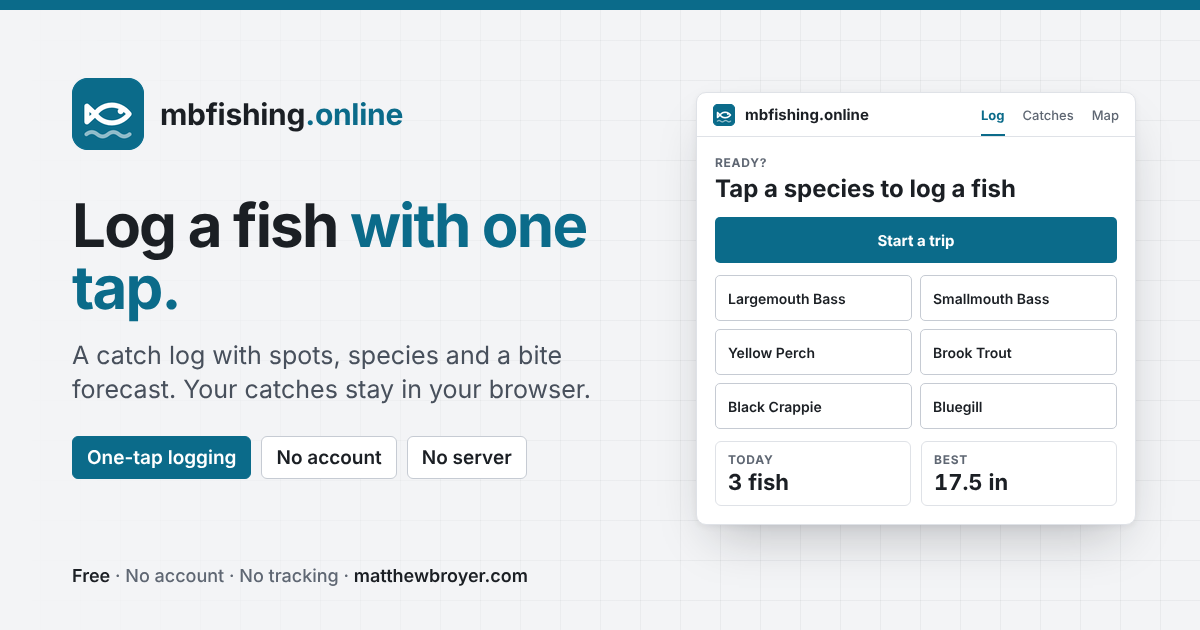
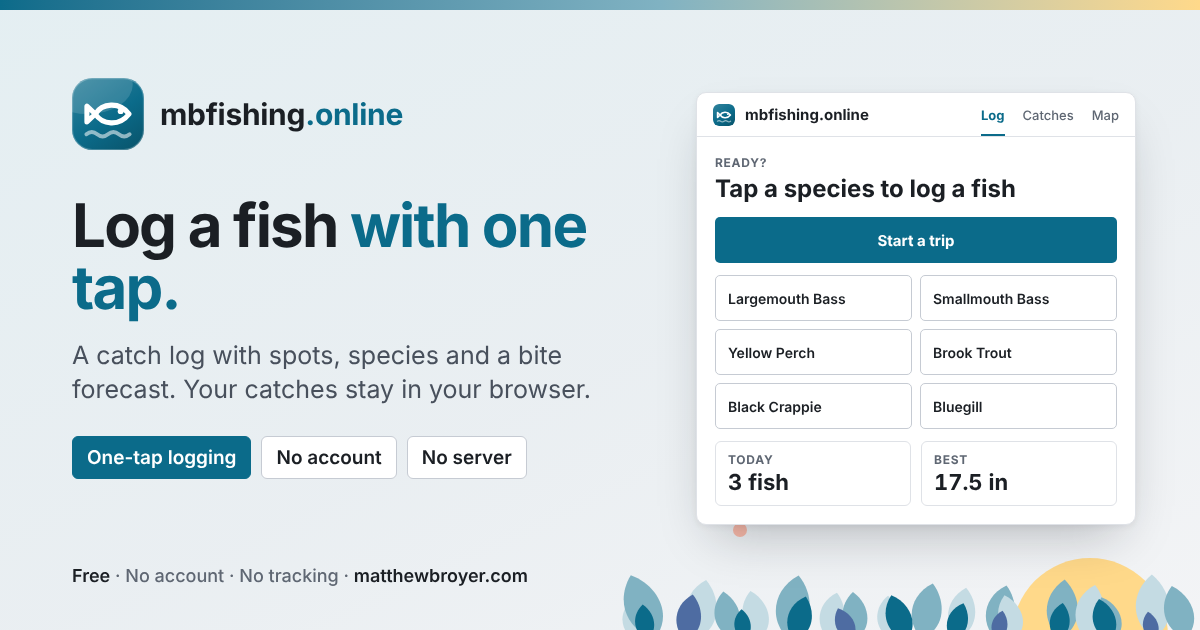
Add files via upload

diff --git a/index.html b/index.html
@@ -2,7 +2,7 @@
 <html lang="en">
 <head>
 <meta charset="utf-8">
-<meta http-equiv="Content-Security-Policy" content="default-src 'none'; script-src 'self' 'sha256-AQcgw3QsikccOQscMMUMW0Rfqv4LnLrk8Cee+yrlqqE=' 'sha256-t5lGpYBaDxTfELkru2DaUQ7yke10enwug5xSwQKziYU='; style-src 'self' 'unsafe-inline'; img-src 'self' data: blob: https://tiles.openfreemap.org; connect-src 'self' https://api.open-meteo.com https://photon.komoot.io https://tiles.openfreemap.org; worker-src 'self' blob:; child-src 'self' blob:; manifest-src 'self'; object-src 'none'; base-uri 'none'; form-action 'none'; frame-src 'none'">
+<meta http-equiv="Content-Security-Policy" content="default-src 'none'; script-src 'self' 'sha256-AQcgw3QsikccOQscMMUMW0Rfqv4LnLrk8Cee+yrlqqE=' 'sha256-8pg0vtGjQ7nLqe4cF+yCFuGCxFhlnPUaorGmQA6qUSw='; style-src 'self' 'unsafe-inline'; img-src 'self' data: blob: https://tiles.openfreemap.org; connect-src 'self' https://api.open-meteo.com https://photon.komoot.io https://tiles.openfreemap.org; worker-src 'self' blob:; child-src 'self' blob:; manifest-src 'self'; object-src 'none'; base-uri 'none'; form-action 'none'; frame-src 'none'">
 <meta name="viewport" content="width=device-width,initial-scale=1,viewport-fit=cover">
 <meta name="theme-color" content="#0B6B8A">
 <title>Fishing | Log</title>
@@ -12,7 +12,7 @@
 <meta property="og:title" content="Fishing: log a fish with one tap">
 <meta property="og:description" content="No account. Your catches are saved in your browser, not on a server.">
 <meta property="og:url" content="https://mbfishing.online/">
-<meta property="og:image" content="https://mbfishing.online/og-image.png">
+<meta property="og:image" content="https://mbfishing.online/og-image.png?v=2">
 <meta property="og:image:type" content="image/png">
 <meta property="og:image:width" content="1200">
 <meta property="og:image:height" content="630">
@@ -20,15 +20,15 @@
 <meta name="twitter:card" content="summary_large_image">
 <meta name="twitter:title" content="Fishing: log a fish with one tap">
 <meta name="twitter:description" content="No account. Your catches are saved in your browser, not on a server.">
-<meta name="twitter:image" content="https://mbfishing.online/og-image.png">
+<meta name="twitter:image" content="https://mbfishing.online/og-image.png?v=2">
 <script>var __t="light";try{if(localStorage.getItem("mbfishing.theme")==="dark")__t="dark"}catch(e){}document.documentElement.setAttribute("data-theme",__t)</script>
 <meta name="apple-mobile-web-app-capable" content="yes">
 <meta name="mobile-web-app-capable" content="yes">
 <meta name="apple-mobile-web-app-title" content="Fishing">
 <link rel="manifest" href="manifest.json">
-<link rel="icon" href="favicon.ico" sizes="48x48">
-<link rel="icon" href="favicon.svg" type="image/svg+xml">
-<link rel="apple-touch-icon" href="apple-touch-icon.png">
+<link rel="icon" href="favicon.ico?v=2" sizes="48x48">
+<link rel="icon" href="favicon.svg?v=2" type="image/svg+xml">
+<link rel="apple-touch-icon" href="apple-touch-icon.png?v=2">
 <style>
 /* Utility theme tokens: neutral desktop-software palette, one chartreuse-olive accent. The app opens in light mode; dark applies only when you pick it. */
 :root{--bg:#f3f4f6;--surface:#fff;--surface2:#f6f7f9;--surface3:#eceef2;--ink:#1b1f24;--ink-2:#48505c;--muted:#5f6773;--line:#dfe2e7;--line-strong:#c6cbd3;--accent:#0b6b8a;--accent-hover:#08566f;--accent-ink:#fff;--accent-soft:rgba(11,107,138,.10);--accent-line:rgba(11,107,138,.38);--gold:#b87900;--gold-ink:#7a5200;--gold-soft:#fbeecb;--good:#16a34a;--danger:#b3321f;--danger-ink:#fff;--shadow:0 1px 2px rgba(20,24,31,.06);--shadow-pop:0 8px 24px -6px rgba(20,24,31,.22),0 1px 3px rgba(20,24,31,.08);color-scheme:light}
@@ -746,11 +746,142 @@ img.logo{border-radius:var(--r)}
 }
 
 </style>
+<style id="mb-suite-cutouts">
+/* =====================================================================
+   MB SUITE v2 · PAPER CUTOUTS surface layer
+   Additive and accent-driven. Load LAST in <head>: after mb-suite-core.css,
+   mb-suite-appbar.css and the app's adapter. Never edit core to get this look.
+   Changes SURFACE only: gradients, page wash, cutout art. Geometry (6/4/8px),
+   layout, density, type, components, motion and behavior stay MB Suite v1.
+   Per-app tweaks go in adapters/<app>-cutouts.css, not here.
+   ===================================================================== */
+
+/* ---- art + gradient tokens (all derived from --accent; no per-app hex) ---- */
+:root{
+  --cut-deep:var(--accent);
+  --cut-mid:color-mix(in srgb,var(--accent) 52%,#fff);
+  --cut-soft:color-mix(in srgb,var(--accent) 24%,#fff);
+  --cut-near:color-mix(in srgb,var(--accent) 62%,#0aa6b8);      /* neighbor hue; upgraded below where supported */
+  --cut-butter:#FFD98A;
+  --cut-blush:#F7B8A8;
+  --wash-top:color-mix(in srgb,var(--accent) 7%,#fff);
+  --wash-mid:color-mix(in srgb,var(--accent) 4%,var(--bg));
+  --g-line:linear-gradient(90deg,var(--accent),var(--cut-mid) 55%,var(--cut-butter));
+  --g-underline:linear-gradient(90deg,var(--accent),var(--cut-mid));
+  --g-pri:linear-gradient(135deg,var(--accent),var(--accent-hover));
+  --g-bar:linear-gradient(90deg,var(--accent),var(--cut-mid));
+  --g-tile:linear-gradient(135deg,color-mix(in srgb,var(--accent) 11%,var(--surface)),var(--surface) 65%);
+}
+@supports (color:oklch(from red l c h)){
+  :root{--cut-near:oklch(from var(--accent) calc(l + .04) c calc(h + 34))}
+}
+:root[data-theme="dark"],:root.dark{
+  --cut-mid:color-mix(in srgb,var(--accent) 60%,var(--surface));
+  --cut-soft:color-mix(in srgb,var(--accent) 30%,var(--surface));
+  --cut-near:color-mix(in srgb,var(--accent) 62%,#0aa6b8);
+  --cut-butter:#D9B363;
+  --cut-blush:#C98C80;
+  --wash-top:color-mix(in srgb,var(--accent) 16%,var(--bg));
+  --wash-mid:color-mix(in srgb,var(--accent) 7%,var(--bg));
+}
+@supports (color:oklch(from red l c h)){
+  :root[data-theme="dark"],:root.dark{--cut-near:oklch(from var(--accent) calc(l - .06) c calc(h + 34))}
+}
+
+/* ---- page wash: accent-derived, fades into the neutral page by ~680px ---- */
+html{background:linear-gradient(180deg,var(--wash-top) 0,var(--wash-mid) 420px,var(--bg) 680px) no-repeat,var(--bg)}
+body{background:none}
+
+/* ---- app bar: gradient accent line + gradient underline on the current tab ---- */
+.top,.app-bar{box-shadow:var(--shadow)!important}
+.top::before,.app-bar::before{content:"";position:absolute;left:0;right:0;top:0;height:3px;background:var(--g-line);pointer-events:none;z-index:1}
+.tabs button[aria-current="page"],nav.tabs button[aria-current="page"],
+:root[data-theme="dark"] nav.tabs button[aria-current="page"]{box-shadow:none!important;background:var(--g-underline) bottom/100% 2px no-repeat!important}
+.bnav button[aria-current="page"]{box-shadow:none!important;background:var(--g-underline) top/100% 2px no-repeat!important}
+
+/* ---- gradient is allowed ONLY here (everything else stays flat v1) ----
+   primary buttons, progress/bar fills, the hero stat tile, the banner, the page wash, the accent line.
+   Map the app's own selectors in adapters/<app>-cutouts.css; these are the common ones. */
+:is(.btn.primary,.btn.pri,.btn-primary,button.primary,.primary-btn){background:var(--g-pri)!important;border-color:transparent!important;color:var(--accent-ink)!important}
+.cu-hero{background:var(--g-tile)}
+.cu-bar{background:var(--g-bar)!important}                 /* use on the fill element of a progress/bar */
+
+/* ---- banner ---- */
+.cu-banner{position:relative;overflow:hidden;min-height:128px;margin:0 0 var(--sp-4);padding:22px 24px;border-radius:var(--r-lg);
+  border:1px solid color-mix(in srgb,var(--accent) 16%,transparent);box-shadow:var(--shadow);
+  background:linear-gradient(105deg,color-mix(in srgb,var(--accent) 3%,var(--surface)) 0%,color-mix(in srgb,var(--accent) 9%,var(--surface)) 60%,
+    color-mix(in srgb,var(--cut-butter) 22%,color-mix(in srgb,var(--accent) 5%,var(--surface))) 100%)}
+.cu-banner.slim{min-height:72px;padding:16px 24px}
+.cu-banner .cu-txt{position:relative;z-index:1}
+.cu-banner.slim .cu-art:not(.at-bottom):not(.at-top){max-width:58%}
+.cu-banner .cu-t{margin:0;font-size:var(--fs-h2);font-weight:650;letter-spacing:-.015em;color:var(--ink)}
+.cu-banner .cu-s{margin:4px 0 0;font-size:13.5px;color:var(--ink-2)}
+
+/* ---- art: roles (never hardcode hexes; recolor by role class or palette class) ---- */
+.cu-art{position:absolute;right:0;top:0;height:100%;width:auto;max-width:75%;pointer-events:none}
+.cu-art .d{fill:var(--cu-d,var(--cut-deep))}
+.cu-art .m{fill:var(--cu-m,var(--cut-mid))}
+.cu-art .s{fill:var(--cu-s,var(--cut-soft))}
+.cu-art .n{fill:var(--cu-n,var(--cut-near))}
+.cu-art .b{fill:var(--cu-b,var(--cut-butter))}
+.cu-art .r{fill:var(--cu-r,var(--cut-blush))}
+.cu-art .sd{fill:none;stroke:var(--cu-d,var(--cut-deep));stroke-width:3;stroke-linecap:round;stroke-linejoin:round}
+.cu-art .sm{fill:none;stroke:var(--cu-m,var(--cut-mid));stroke-width:3;stroke-linecap:round;stroke-linejoin:round}
+
+/* ---- palettes: put on the svg or any ancestor ---- */
+.cu-p-mono{--cu-n:color-mix(in srgb,var(--accent) 78%,#000);--cu-b:color-mix(in srgb,var(--accent) 14%,var(--surface));--cu-r:color-mix(in srgb,var(--accent) 38%,var(--surface))}
+.cu-p-soft{--cu-d:var(--cut-mid);--cu-m:var(--cut-soft);--cu-s:color-mix(in srgb,var(--accent) 12%,var(--surface));
+  --cu-n:color-mix(in srgb,var(--cut-near) 45%,var(--surface));--cu-b:color-mix(in srgb,var(--cut-butter) 70%,var(--surface));--cu-r:color-mix(in srgb,var(--cut-blush) 70%,var(--surface))}
+.cu-p-bold{--cu-d:var(--accent-hover);--cu-m:var(--accent);--cu-s:var(--cut-mid)}
+
+/* ---- placement / size / modifiers (all optional; size with --cu-w or height) ---- */
+.cu-art.at-right{right:0;left:auto;top:0}
+.cu-art.at-left{left:0;right:auto;top:0}
+.cu-art.at-top{left:0;right:0;top:0;width:100%;height:auto;max-width:none}
+.cu-art.at-bottom{left:0;right:0;top:auto;bottom:0;width:100%;height:auto;max-width:none}
+.cu-art.at-corner{top:0;right:0;height:auto;width:var(--cu-w,220px);max-width:none}
+.cu-art.at-corner-bl{top:auto;right:auto;bottom:0;left:0;height:auto;width:var(--cu-w,220px);max-width:none}
+.cu-art.inline{position:relative;display:block;right:auto;top:auto;margin:0 auto;width:var(--cu-w,100%);max-width:100%;height:auto}
+.cu-art.mirror{transform:scaleX(-1)}
+.cu-art.flip{transform:scaleY(-1)}
+.cu-art.fade{opacity:.35}
+.cu-art.xs{--cu-w:64px}.cu-art.sm{--cu-w:120px}.cu-art.md{--cu-w:220px}.cu-art.lg{--cu-w:340px}
+:root[data-theme="dark"] .cu-art,:root.dark .cu-art{opacity:.85}
+:root[data-theme="dark"] .cu-art.fade,:root.dark .cu-art.fade{opacity:.3}
+
+/* ---- phones + print ---- */
+@media(max-width:600px){
+  .cu-banner{padding:18px 16px;min-height:104px}
+  .cu-banner .cu-art:not(.at-bottom):not(.at-top){max-width:46%}
+}
+@media print{html{background:#fff}.cu-banner,.cu-art{display:none}}
+
+/* =====================================================================
+   MB SUITE v2 · mbfishing.online adapter (loads after mb-suite-cutouts.css)
+   Fishing has no .top/.app-bar: its accent line is body::before and its tabs are #nav.
+   ===================================================================== */
+/* accent line: the v1 fixed bar becomes the gradient */
+body::before{background:var(--g-line)}
+/* current tab: gradient marker. Phone bottom bar = top marker; wide screens = bottom underline */
+#nav button[aria-current=page]{box-shadow:none!important;background:var(--g-underline) top/100% 2px no-repeat!important}
+@media(min-width:900px){#nav button[aria-current=page]{background:var(--g-underline) bottom/100% 2px no-repeat!important}}
+/* primary buttons: gradient (generic rule), hover feedback, flat disabled state */
+.btn.primary:hover:not(:disabled){filter:brightness(.94)}
+.btn.primary:disabled{background:color-mix(in srgb,var(--accent) 35%,var(--surface-2))!important;border-color:transparent!important;color:color-mix(in srgb,var(--accent-ink) 80%,transparent)!important;filter:none}
+/* progress fills (scroll progress line and meters) */
+.bar i,#prog i{background:var(--g-bar)}
+/* the status card is the hero tile of the Log view */
+.card.status{background:var(--g-tile)}
+/* the banner sits above the two-column Log layout */
+#v-log>.cu-banner{margin-bottom:var(--sp-4)}
+/* phones: keep banner text in its own column so it never meets the art */
+@media(max-width:600px){.cu-banner .cu-txt{max-width:54%}}
+</style>
 </head>
 <body>
 <a class="skip" href="#main" data-act="skip">Skip to content</a>
 <header id="top">
-  <h1><a class="lockup" href="./" data-act="go" data-v="log" aria-label="mbfishing.online: Your catch log. Go to Log"><img class="logo" src="favicon.svg" alt="" width="32" height="32"><span class="lk-t"><span class="lk-n">mbfishing<span>.online</span></span><span class="lk-d">Official Web App · v1.1</span></span></a></h1>
+  <h1><a class="lockup" href="./" data-act="go" data-v="log" aria-label="mbfishing.online: Your catch log. Go to Log"><img class="logo" src="favicon.svg" alt="" width="32" height="32"><span class="lk-t"><span class="lk-n">mbfishing<span>.online</span></span><span class="lk-d">Official Web App · v1.2</span></span></a></h1>
   <div class="hdr-tools">
     <button id="pill" data-act="go" data-v="log" hidden></button>
     <button class="ib" id="search-btn" data-act="gs-open" aria-label="Search everything"><svg class="uic" viewBox="0 0 24 24" width="20" height="20" fill="none" stroke="currentColor" stroke-width="2" stroke-linecap="round" stroke-linejoin="round" aria-hidden="true" focusable="false"><circle cx="10.5" cy="10.5" r="6"/><path d="m15 15 5 5"/></svg><span class="lbl">Search everything</span><kbd>/</kbd></button>
@@ -789,7 +920,7 @@ img.logo{border-radius:var(--r)}
   <section id="v-more" class="view" hidden></section>
 </main>
 <nav id="nav" aria-label="Main">
-  <div class="brand"><a class="lockup" href="./" data-act="go" data-v="log" aria-label="mbfishing.online: Your catch log. Go to Log"><img class="logo" src="favicon.svg" alt="" width="32" height="32"><span class="lk-t"><span class="lk-n">mbfishing<span>.online</span></span><span class="lk-d">Official Web App · v1.1</span></span></a></div>
+  <div class="brand"><a class="lockup" href="./" data-act="go" data-v="log" aria-label="mbfishing.online: Your catch log. Go to Log"><img class="logo" src="favicon.svg" alt="" width="32" height="32"><span class="lk-t"><span class="lk-n">mbfishing<span>.online</span></span><span class="lk-d">Official Web App · v1.2</span></span></a></div>
   <button data-act="go" data-v="log" aria-current="page"><span class="ic"><svg class="uic" viewBox="0 0 24 24" width="20" height="20" fill="none" stroke="currentColor" stroke-width="2" stroke-linecap="round" stroke-linejoin="round" aria-hidden="true" focusable="false"><circle cx="12" cy="12" r="9"/><path d="M12 8v8M8 12h8"/></svg></span>Log</button>
   <button data-act="go" data-v="catches"><span class="ic"><svg class="uic" viewBox="0 0 24 24" width="20" height="20" fill="none" stroke="currentColor" stroke-width="2" stroke-linecap="round" stroke-linejoin="round" aria-hidden="true" focusable="false"><path d="M6.5 12c2.5-4 8.5-4.8 12.5 0-4 4.8-10 4-12.5 0z"/><path d="M6.5 12 3 9v6z"/><circle cx="15.5" cy="11.3" r=".9" fill="currentColor" stroke="none"/></svg></span>Catches</button>
   <button data-act="go" data-v="map"><span class="ic"><svg class="uic" viewBox="0 0 24 24" width="20" height="20" fill="none" stroke="currentColor" stroke-width="2" stroke-linecap="round" stroke-linejoin="round" aria-hidden="true" focusable="false"><path d="M9 4 3 6.5v13L9 17l6 2.5 6-2.5v-13L15 6.5 9 4z"/><path d="M9 4v13M15 6.5v13"/></svg></span>Map</button>
@@ -1697,12 +1828,18 @@ function setupCard(){
   return`<div class="card setup"><div class="eyebrow">Get set up · ${n} of ${steps.length}</div><div class="bar"><i style="width:${Math.round(n/steps.length*100)}%"></i></div>${steps.map(row).join('')}<button class="btn sm link mt" data-act="setup-hide">Hide this list</button></div>`;
 }
 ACT['setup-hide']=()=>{try{localStorage.setItem(SETUP_KEY,'hidden')}catch(e){}refresh()};
+const CU_BANNER_SVG=`<svg class="cu-art" viewBox="0 0 640 140" preserveAspectRatio="xMaxYMax slice" aria-hidden="true" focusable="false"><circle class="b" cx="470" cy="142" r="78"/><path class="s" transform="translate(11.6 144) rotate(-81.5) scale(0.42)" d="M0 0 C 20 -34 66 -40 96 -6 C 70 28 22 34 0 0Z"/><path class="m" transform="translate(34.9 144) rotate(-107.4) scale(0.70)" d="M0 0 C 20 -34 66 -40 96 -6 C 70 28 22 34 0 0Z"/><path class="s" transform="translate(76.6 144) rotate(-77.1) scale(0.61)" d="M0 0 C 20 -34 66 -40 96 -6 C 70 28 22 34 0 0Z"/><path class="m" transform="translate(111 144) rotate(-95.8) scale(0.49)" d="M0 0 C 20 -34 66 -40 96 -6 C 70 28 22 34 0 0Z"/><path class="s" transform="translate(140.5 144) rotate(-98.5) scale(0.50)" d="M0 0 C 20 -34 66 -40 96 -6 C 70 28 22 34 0 0Z"/><path class="m" transform="translate(167.7 144) rotate(-76.5) scale(0.66)" d="M0 0 C 20 -34 66 -40 96 -6 C 70 28 22 34 0 0Z"/><path class="s" transform="translate(207.6 144) rotate(-74.7) scale(0.48)" d="M0 0 C 20 -34 66 -40 96 -6 C 70 28 22 34 0 0Z"/><path class="m" transform="translate(237.1 144) rotate(-91.6) scale(0.48)" d="M0 0 C 20 -34 66 -40 96 -6 C 70 28 22 34 0 0Z"/><path class="s" transform="translate(269 144) rotate(-87.7) scale(0.44)" d="M0 0 C 20 -34 66 -40 96 -6 C 70 28 22 34 0 0Z"/><path class="m" transform="translate(301.3 144) rotate(-74.5) scale(0.58)" d="M0 0 C 20 -34 66 -40 96 -6 C 70 28 22 34 0 0Z"/><path class="s" transform="translate(337.7 144) rotate(-76.9) scale(0.53)" d="M0 0 C 20 -34 66 -40 96 -6 C 70 28 22 34 0 0Z"/><path class="m" transform="translate(374.9 144) rotate(-74) scale(0.56)" d="M0 0 C 20 -34 66 -40 96 -6 C 70 28 22 34 0 0Z"/><path class="s" transform="translate(396.2 144) rotate(-101.8) scale(0.46)" d="M0 0 C 20 -34 66 -40 96 -6 C 70 28 22 34 0 0Z"/><path class="m" transform="translate(440.3 144) rotate(-82.1) scale(0.61)" d="M0 0 C 20 -34 66 -40 96 -6 C 70 28 22 34 0 0Z"/><path class="s" transform="translate(465.4 144) rotate(-76.1) scale(0.56)" d="M0 0 C 20 -34 66 -40 96 -6 C 70 28 22 34 0 0Z"/><path class="m" transform="translate(496.2 144) rotate(-106.3) scale(0.45)" d="M0 0 C 20 -34 66 -40 96 -6 C 70 28 22 34 0 0Z"/><path class="s" transform="translate(533.6 144) rotate(-88) scale(0.66)" d="M0 0 C 20 -34 66 -40 96 -6 C 70 28 22 34 0 0Z"/><path class="m" transform="translate(565.8 144) rotate(-101.5) scale(0.56)" d="M0 0 C 20 -34 66 -40 96 -6 C 70 28 22 34 0 0Z"/><path class="s" transform="translate(605.4 144) rotate(-99.5) scale(0.52)" d="M0 0 C 20 -34 66 -40 96 -6 C 70 28 22 34 0 0Z"/><path class="m" transform="translate(630.7 144) rotate(-96.5) scale(0.65)" d="M0 0 C 20 -34 66 -40 96 -6 C 70 28 22 34 0 0Z"/><path class="d" transform="translate(26.5 146) rotate(-92.6) scale(0.37)" d="M0 0 C 20 -34 66 -40 96 -6 C 70 28 22 34 0 0Z"/><path class="n" transform="translate(65.2 146) rotate(-77) scale(0.48)" d="M0 0 C 20 -34 66 -40 96 -6 C 70 28 22 34 0 0Z"/><path class="d" transform="translate(123.6 146) rotate(-90.3) scale(0.32)" d="M0 0 C 20 -34 66 -40 96 -6 C 70 28 22 34 0 0Z"/><path class="d" transform="translate(174 146) rotate(-71.2) scale(0.47)" d="M0 0 C 20 -34 66 -40 96 -6 C 70 28 22 34 0 0Z"/><path class="n" transform="translate(231.9 146) rotate(-110.2) scale(0.36)" d="M0 0 C 20 -34 66 -40 96 -6 C 70 28 22 34 0 0Z"/><path class="d" transform="translate(286.3 146) rotate(-105) scale(0.49)" d="M0 0 C 20 -34 66 -40 96 -6 C 70 28 22 34 0 0Z"/><path class="d" transform="translate(332 146) rotate(-69) scale(0.40)" d="M0 0 C 20 -34 66 -40 96 -6 C 70 28 22 34 0 0Z"/><path class="n" transform="translate(376.7 146) rotate(-74.9) scale(0.31)" d="M0 0 C 20 -34 66 -40 96 -6 C 70 28 22 34 0 0Z"/><path class="d" transform="translate(437.1 146) rotate(-77.8) scale(0.39)" d="M0 0 C 20 -34 66 -40 96 -6 C 70 28 22 34 0 0Z"/><path class="d" transform="translate(489.5 146) rotate(-100.8) scale(0.44)" d="M0 0 C 20 -34 66 -40 96 -6 C 70 28 22 34 0 0Z"/><path class="n" transform="translate(533.4 146) rotate(-97.3) scale(0.30)" d="M0 0 C 20 -34 66 -40 96 -6 C 70 28 22 34 0 0Z"/><path class="d" transform="translate(594.4 146) rotate(-96.7) scale(0.38)" d="M0 0 C 20 -34 66 -40 96 -6 C 70 28 22 34 0 0Z"/><path class="d" transform="translate(645.9 146) rotate(-85.8) scale(0.44)" d="M0 0 C 20 -34 66 -40 96 -6 C 70 28 22 34 0 0Z"/><circle class="r" cx="120" cy="36" r="7"/><circle class="b" cx="330" cy="22" r="5"/><circle class="r" cx="590" cy="70" r="6"/></svg>`;
+function cuBanner(t,list){
+  const d=new Date().toLocaleDateString(undefined,{weekday:'long',month:'long',day:'numeric'}),n=db.catches.length;
+  const sub=d+(t?' \u00B7 '+list.length+' fish this trip':(n?' \u00B7 '+n+' catch'+(n===1?'':'es')+' logged':''));
+  return `<section class="cu-banner">${CU_BANNER_SVG}<div class="cu-txt"><h2 class="cu-t">Your catch log</h2><p class="cu-s">${esc(sub)}</p></div></section>`;
+}
 function renderLog(){
   const el=$('#v-log'),t=activeTrip(),list=t?catchesOf(t.id):[],P=pbs();
   const counts={};list.forEach(c=>{counts[c.species]=(counts[c.species]||0)+1});
   if(!quickOrder)quickOrder=speciesOrder().slice(0,innerWidth>=560?8:6);
   const recent=t?[]:[...db.catches].sort((a,b)=>b.t-a.t).slice(0,4);
-  el.innerHTML=`<div class="lg"><div class="lg-l">
+  el.innerHTML=`${cuBanner(t,list)}<div class="lg"><div class="lg-l">
   <div class="card status">
     ${t?`<div class="row between"><div><div class="eyebrow">Fishing now</div><div class="big" id="elapsed">${fmtDur(Date.now()-t.start)}</div></div><div class="count"><b>${list.length}</b>fish</div><button class="btn" data-act="trip-end">End trip</button></div>
       <div class="chips" style="margin-top:0">${spotChip(t)}${lureChip()}${lostChip(t)}${wxChip(t)}</div>
@@ -3008,7 +3145,7 @@ async function renderMore(){
   </div>
   <div class="blk" id="faq-blk"><h3>Help &amp; FAQ</h3><button class="btn sm" data-act="tour" style="margin-bottom:10px">▶ Replay the quick tour</button>${faqHTML()}</div>
   </div>
-  <p class="muted sm" style="text-align:center;margin:22px 0 64px"><button class="btn sm" data-act="whats-new">v1.1 · What’s new</button><br><br>mbfishing.online · No account. Your catches stay on this device.<span class="legal"><a href="privacy.html" target="_blank" rel="noopener">Privacy</a><a href="terms.html" target="_blank" rel="noopener">Terms</a><a href="privacy.html#credits" target="_blank" rel="noopener">Credits</a></span>Map © OpenFreeMap, OpenMapTiles, OpenStreetMap contributors. Weather by Open-Meteo.com.</p>`;
+  <p class="muted sm" style="text-align:center;margin:22px 0 64px"><button class="btn sm" data-act="whats-new">v1.2 · What’s new</button><br><br>mbfishing.online · No account. Your catches stay on this device.<span class="legal"><a href="privacy.html" target="_blank" rel="noopener">Privacy</a><a href="terms.html" target="_blank" rel="noopener">Terms</a><a href="privacy.html#credits" target="_blank" rel="noopener">Credits</a></span>Map © OpenFreeMap, OpenMapTiles, OpenStreetMap contributors. Weather by Open-Meteo.com.</p>`;
   try{
     const est=navigator.storage&&navigator.storage.estimate?await navigator.storage.estimate():null,per=navigator.storage&&navigator.storage.persisted?await navigator.storage.persisted():null;
     const s=$('#stor');if(s)s.textContent=`${est?`Using about ${r1((est.usage||0)/1048576)} MB. `:''}${per===true?'Protected from automatic clean-up ✓':per===false?'Not yet protected from automatic clean-up. Back up regularly.':''}`;
@@ -3053,8 +3190,9 @@ ACT.wipe=async()=>{
 /* =====================================================================
    App shell: theme, header, menu, search, help, release notes, privacy note
    ===================================================================== */
-const APP_VERSION='1.1';
+const APP_VERSION='1.2';
 const RELEASES=[
+ {v:'1.2',d:'October 2026',n:["Lighter, fresher look (Paper Cutouts): a soft blue tint across the top of each page, a gradient accent line and tab marker, gradient buttons and progress bars, and a leaf-art banner on the Log screen. Layout and features are unchanged.", "New logo and app icons: the same fish on a softer gradient badge, with a matching link preview image.", "Your catches, spots and backups are unchanged."]},
  {v:'1.1',d:'October 2026',n:['Logo redrawn with the fish exactly centered in the app icon, favicon, home-screen icons and link preview image','More space between the site name and the “Official Web App” line in the header']},
  {v:'1.11.5',d:'October 2026',n:['New logo and app icon: a gold fishing hook on a green gradient, with a matching link preview image','The logo in the header now has a one-line description under the site name, and tapping it takes you back to the Log screen']},
  {v:'1.11.3',d:'October 2026',n:['New logo and app icon: a new fish facing left on a richer green gradient, with a full outline and dorsal fin, centered with equal margins','The link preview image now uses the same fish and gradient so the logo, icons and preview match']},
@@ -3168,7 +3306,7 @@ ACT['menu-open']=()=>{
       <button class="item" data-act="faq-go" data-id="privacy"><span class="th">🔒</span><span class="grow"><b>Privacy &amp; your data</b></span></button>
       <button class="item" data-act="menu-backup"><span class="th">💾</span><span class="grow"><b>Save backup now</b><br><span class="muted sm">JSON to your backup folder</span></span></button>
     </div>
-    <p class="muted sm" style="text-align:center;margin:14px 0 0">mbfishing.online · Official Web App · v1.1<span class="legal"><a href="privacy.html" target="_blank" rel="noopener">Privacy</a><a href="terms.html" target="_blank" rel="noopener">Terms</a></span></p>`);
+    <p class="muted sm" style="text-align:center;margin:14px 0 0">mbfishing.online · Official Web App · v1.2<span class="legal"><a href="privacy.html" target="_blank" rel="noopener">Privacy</a><a href="terms.html" target="_blank" rel="noopener">Terms</a></span></p>`);
 };
 ACT['menu-backup']=()=>{closeSheet();saveBackupNow()};
 

diff --git a/sw.js b/sw.js
@@ -2,7 +2,7 @@
    It lets the app open with no signal (the app files, plus the map code once you've opened the map)
    and remembers map tiles you've already viewed. Your fishing data is never touched by this file.
    "Delete all data" in the app also empties the tile cache below. */
-const VERSION = 'mbfishing-v28';
+const VERSION = 'mbfishing-v29';
 const SHELL = ['./', 'index.html', 'manifest.json', 'icon-192.png', 'icon-512.png', 'icon-maskable-512.png', 'apple-touch-icon.png', 'favicon.svg', 'privacy.html', 'terms.html', 'fish-art.js', 'pixel-kit.js', 'species-data.js'];
 const RUNTIME = 'mbfishing-runtime-v1';
 const MAX_RUNTIME = 900;
